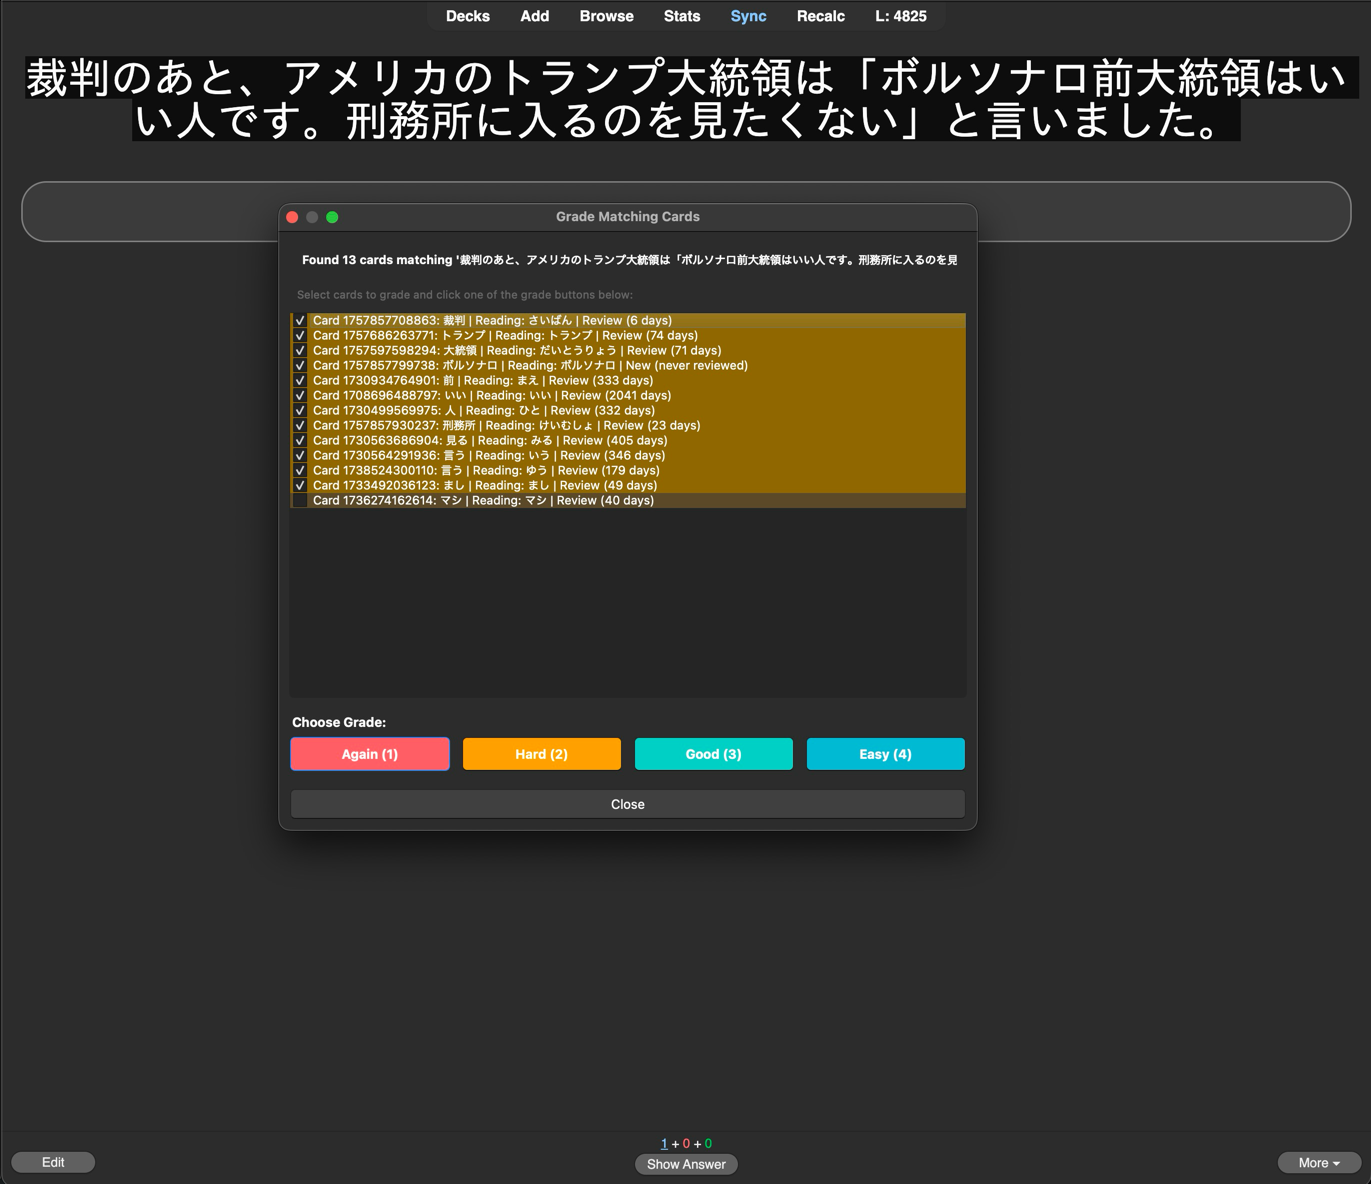
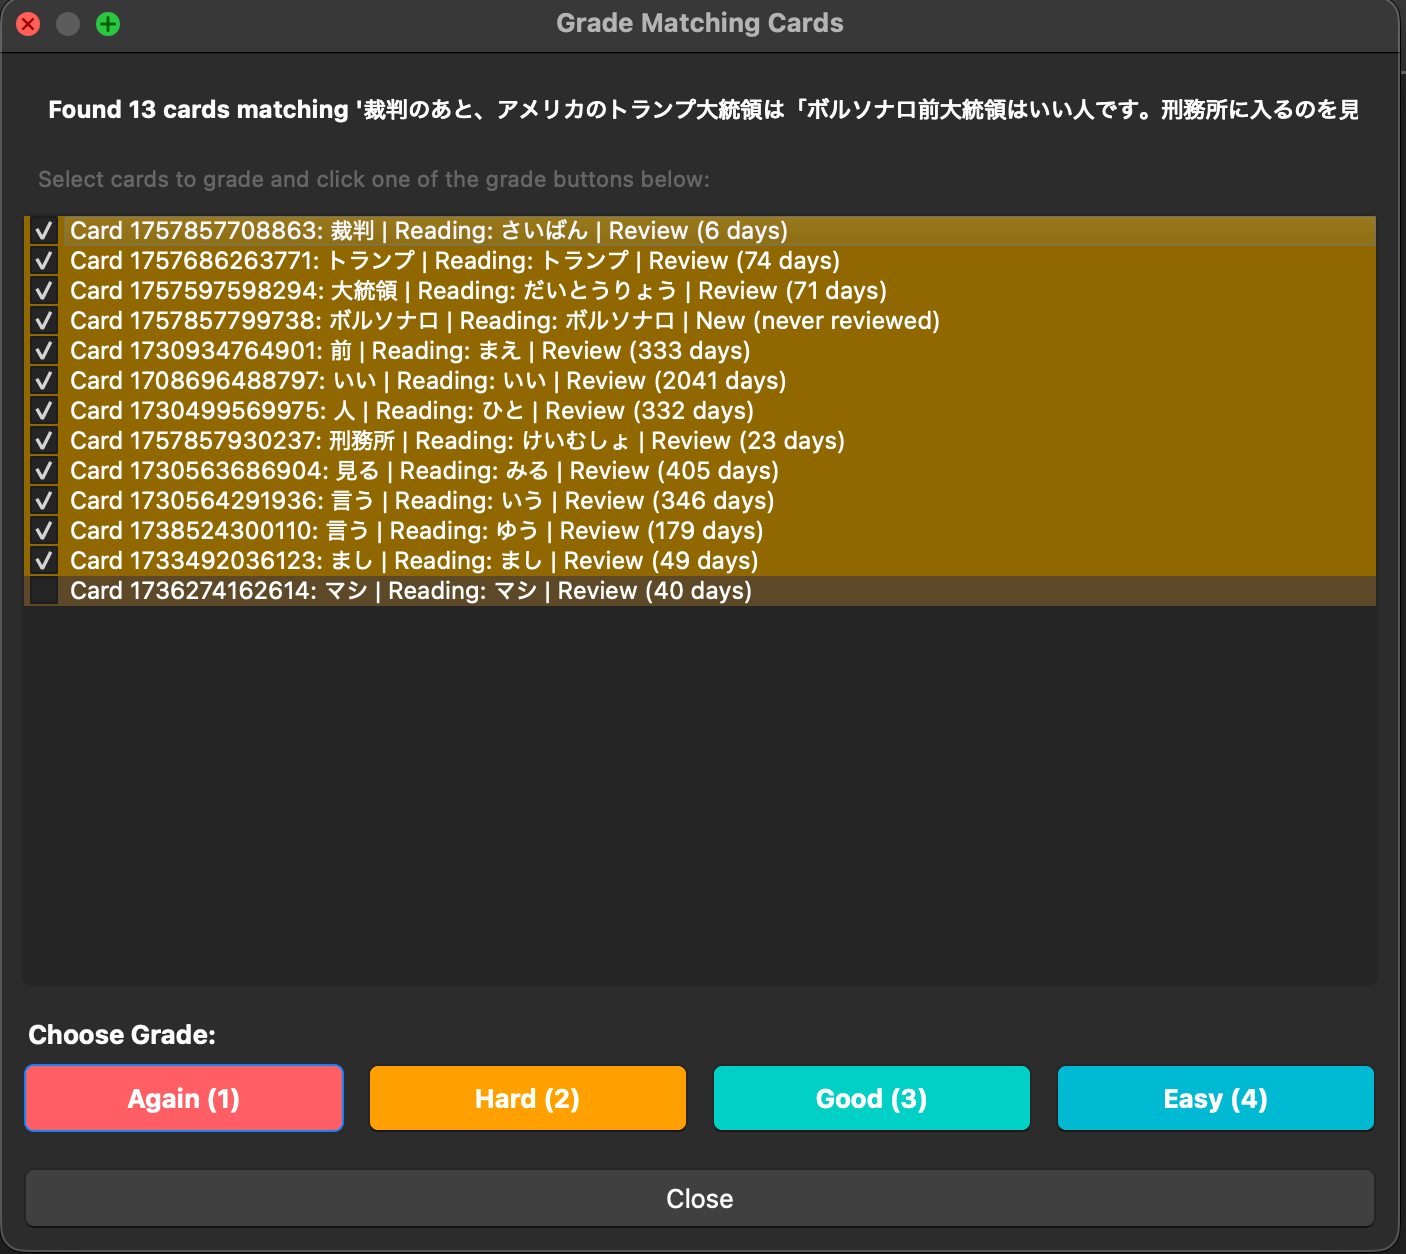
Add image

diff --git a/README.md b/README.md
@@ -11,13 +11,13 @@ This addon allows you to right-click on selected text in the Anki reviewer to fi
 
 ## How to Use
 
-![grader.png](gradegr.png)
 1. In the Anki reviewer, select any text on the current card
 2. Right-click on the selected text
 3. Choose "Grade matching cards: [selected text]" from the context menu
 4. A dialog will show all cards that match the selected text
 5. Select which cards you want to grade (all are selected by default)
 6. Click one of the grade buttons: Again (1), Hard (2), Good (3), or Easy (4)
+![grader.png](grader.png)
 
 ## Configuration
 
